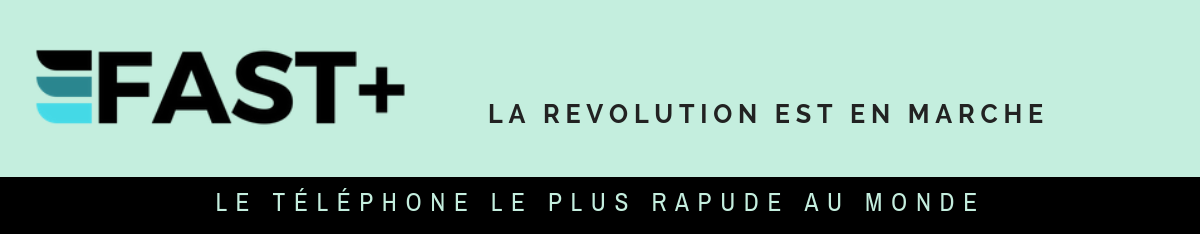
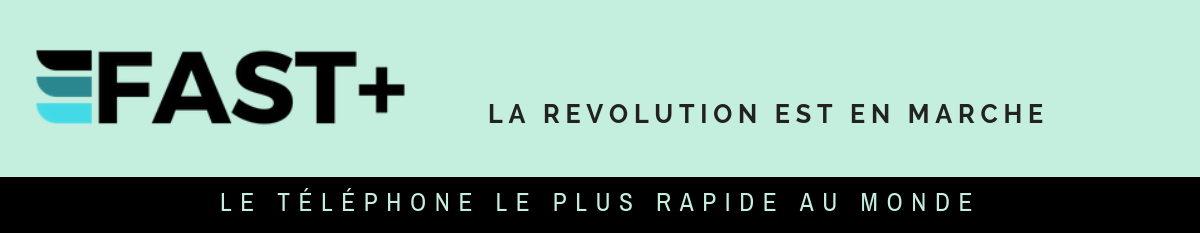
Updated bannieretop.pngmonstyle2.css .

diff --git a/monstyle2.css b/monstyle2.css
@@ -11,7 +11,7 @@ header {
   /* La bannière fera 20% de la hauteur de la page... */
   width: 100%;
   /* et 100% de la largeur. */
-  background-image: url(images/bandeau.jpg);
+  background-image: url(images/bannieretop.jpg);
   background-repeat: repeat
     /* le fond se répète dans toute les direction. (ligne facultative car option par défaut, mais comme ça coute rien de la mettre...) */
     text-align: center;
